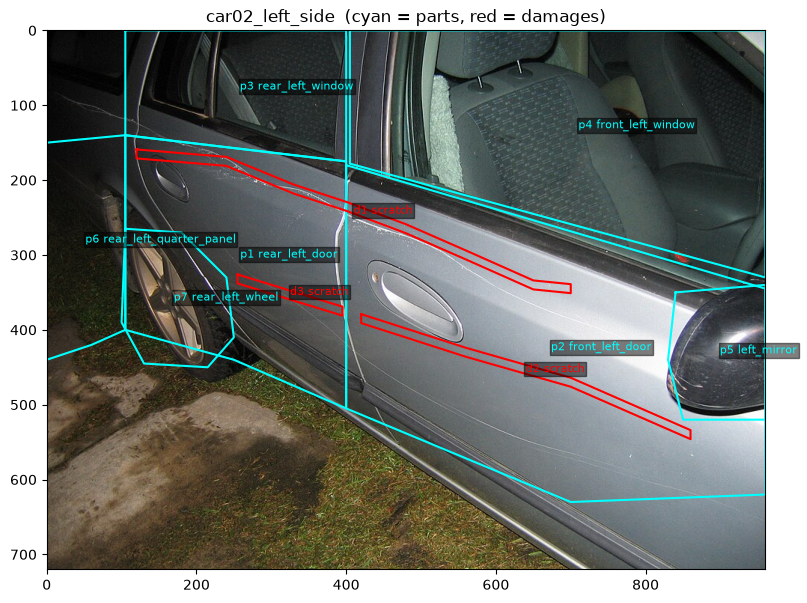
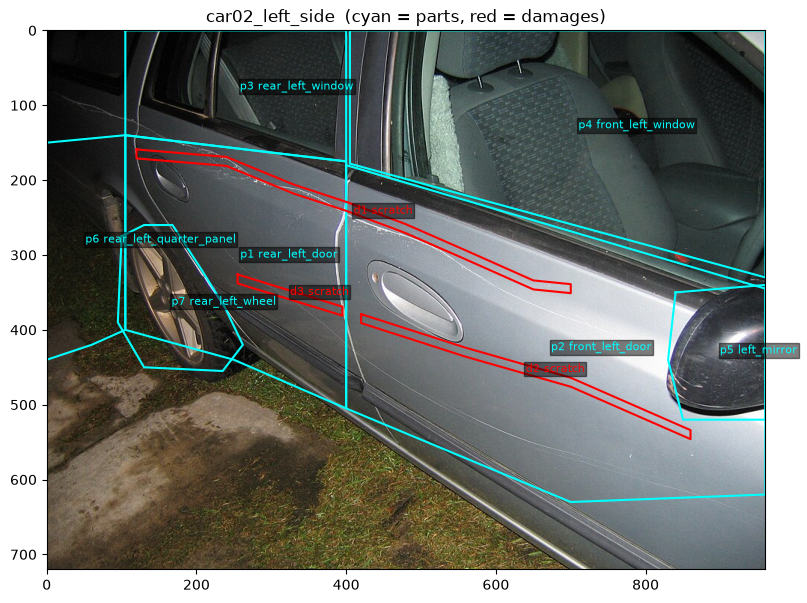
dataset: redraw car02 rear wheel along the arch lip, log outline fixes made after the first run

diff --git a/data/unclear_cases.md b/data/unclear_cases.md
@@ -28,6 +28,20 @@ One bullet per doubt: what was unclear, what I decided, why.
 - **car04**: glass fragments on the hood (debris, not damage). Body parts not touching a damage (bumper, grille, lights) were still outlined as context, because a real part model would output them and the assigner must not be confused by them.
 - **car02**: the rear quarter panel and the wheel are outlined as neighbours only; they carry no damage.
 
+## Outlines corrected after the first assigner run
+
+The expected reports were written before the first run and were not changed.
+On the first run, two photos picked up an extra part at 21% overlap. Each
+overlay was zoomed in on and only outlines that were visibly wrong were fixed:
+
+- **car02 p7 rear_left_wheel**: ran ~35 px past the white wheel-arch lip onto the door. Redrawn to follow the lip.
+- **car02 d3 scratch**: started on the arch lip, ~50 px before the scratch is actually visible. Start moved to where the line begins.
+- **car04 d2 broken_glass and p4 front_left_window**: reached ~20 px down over the mirror housing. Bottom edge moved up to the window sill.
+
+Risk: changing ground truth after seeing the output can quietly tune the data
+to the code. That is why the expected reports stayed fixed and the
+before/after is listed here.
+
 ## Outline precision
 
 - Outlines were placed by reading pixel coordinates off a 50 px grid over each photo and checked on `data/preview/*.png`. They are good to roughly 10 px, which is coarser than a careful click-by-click tracing but finer than a 160x160 mask cell (6 x 4 px here). Two blob-shaped damages (car03 d2, car04 d1) are stored as RLE masks to exercise that code path on real photos.
